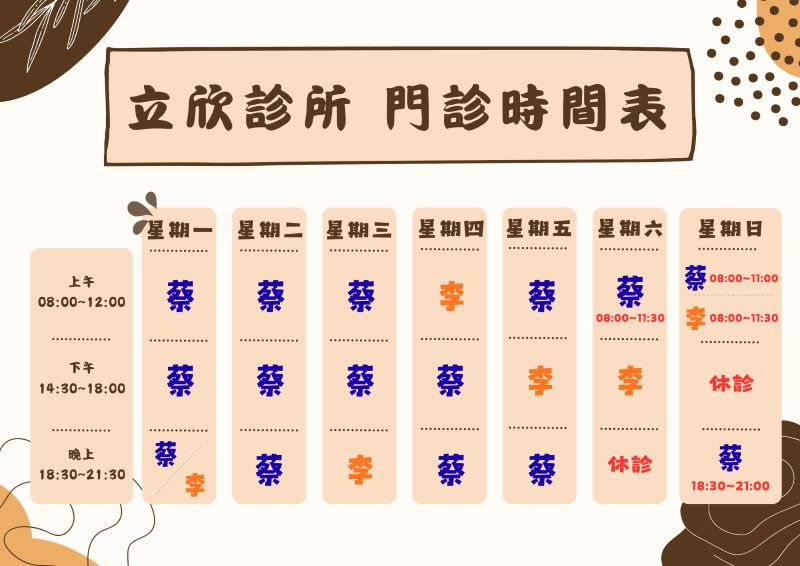
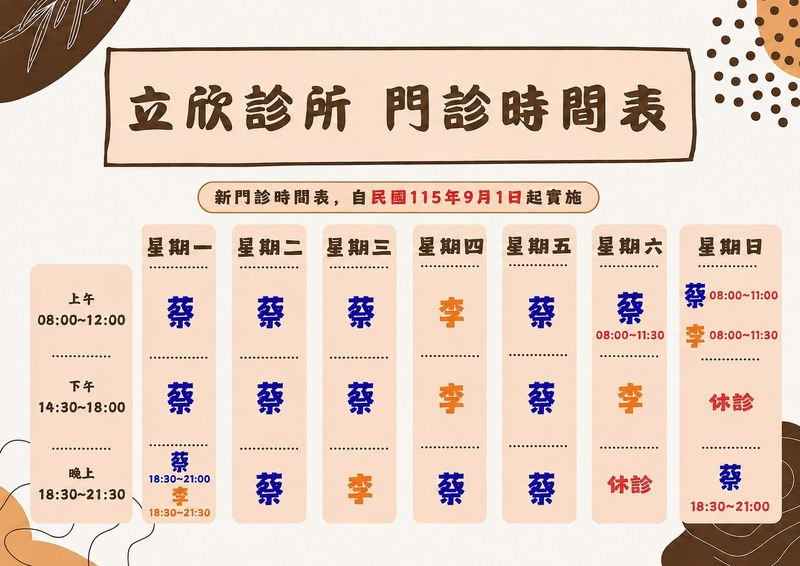
9/1 新門診時間表提前上線：首頁 4 格＋週末頁海報圖
8/31（週一）晚診結束後提前執行，院長指示。變更的是醫師排班，
診所開診時段逐格未變，故 HERO 徽章 SCHEDULE、openingHoursSpecification、
llms 雙檔、各頁 meta/FAQ 門診時間敘述一律零變更。

首頁 #schedule 四格：
- 週四午診 蔡 → 李
- 週五午診 李 → 蔡
- 週一晚診 蔡/李 18:30–21:30 → 蔡 18:30–21:00、李 18:30–21:30
- 週日早診 蔡/李 08:00–11:30 → 蔡 08:00–11:00、李 08:00–11:30

同批：
- images/LH_Time2_s.jpg 由 clinic-notice-20260901.jpg 縮至 800×566
- 門診時間表下方「最後更新」戳記 2026/6/12 → 2026/8/31
- index.html 與 weekend-pediatrics.html dateModified、sitemap lastmod 同步（R4）
- booking-system/prisma/schedule.json 以 sync_schedule.py 重產

驗證：validate_site --stage deploy 76 檔 ERROR 0／WARN 0；
sync_schedule --selftest 通過、--check exit 0；
⛔ 零變更基準計數逐項相同，只有 18:30–21:00（38→39）與 08:00–11:00（0→1）如期 +1；
全站醫師×星期鄰接掃描無新命中；
Playwright 390／1280px 首頁與週末頁零橫向溢出。

Claude-Session: https://claude.ai/code/session_01PuLJRuVXmQsA22MFz5mq2j

diff --git a/index.html b/index.html
@@ -2079,7 +2079,7 @@
  "inLanguage": {"@type": "Language", "name": "Chinese", "alternateName": "zh-TW"},
  "isPartOf": {"@type": "WebSite", "@id": "https://lhpedclinic.com.tw/#website", "url": "https://lhpedclinic.com.tw/", "name": "立欣診所 LiHsin Clinic"},
  "datePublished": "2024-07-01",
- "dateModified": "2026-08-30T08:00:00+08:00",
+ "dateModified": "2026-08-31T08:00:00+08:00",
  "lastReviewed": "2026-05-15T09:00:00+08:00",
  "reviewedBy": {
   "@type": "Person",
@@ -2634,7 +2634,9 @@
  <p class="text-sm text-gray-600 mt-1 font-english" style="color: rgb(214, 105, 102); font-weight: bold;">08:00–11:30</p>
  </td>
  <td class="p-3 text-center">
- <span class="badge-green" style="background-color: rgb(248, 216, 88);">蔡/李</span>
+ <span class="badge-green" style="">蔡醫師</span>
+ <p class="text-sm text-gray-600 mt-1 font-english" style="color: rgb(214, 105, 102); font-weight: bold;">08:00–11:00</p>
+ <span class="badge-green" style="background-color: rgb(255, 212, 211);">李醫師</span>
  <p class="text-sm text-gray-600 mt-1 font-english" style="color: rgb(214, 105, 102); font-weight: bold;">08:00–11:30</p>
  </td>
  </tr>
@@ -2653,11 +2655,11 @@
  <p class="text-sm text-gray-600 mt-1 font-english">14:30–18:00</p>
  </td>
  <td class="p-3 text-center">
- <span class="badge-green" style=""><span style="font-size: 16px;">蔡醫師</span></span>
+ <span class="badge-green" style="background-color: rgb(255, 212, 211);">李醫師</span>
  <p class="text-sm text-gray-600 mt-1 font-english">14:30–18:00</p>
  </td>
  <td class="p-3 text-center">
- <span class="badge-green" style="background-color: rgb(255, 212, 211);">李醫師</span>
+ <span class="badge-green" style=""><span style="font-size: 16px;">蔡醫師</span></span>
  <p class="text-sm text-gray-600 mt-1 font-english">14:30–18:00</p>
  </td>
  <td class="p-3 text-center">
@@ -2672,7 +2674,9 @@
  <tr class="hover:bg-gray-50 transition">
  <td class="p-3 font-chinese font-semibold text-gray-700">晚上<br><span class="text-base text-gray-500 font-english">Evening</span></td>
  <td class="p-3 text-center">
- <span class="badge-green" style="background-color: rgb(248, 216, 88);">蔡/李</span>
+ <span class="badge-green" style="">蔡醫師</span>
+ <p class="text-sm text-gray-600 mt-1 font-english" style="color: rgb(214, 105, 102); font-weight: bold;">18:30–21:00</p>
+ <span class="badge-green" style="background-color: rgb(255, 212, 211);">李醫師</span>
  <p class="text-sm text-gray-600 mt-1 font-english">18:30–21:30</p>
  </td>
  <td class="p-3 text-center">
@@ -2711,7 +2715,7 @@
  </div>
  </div>
  <p class="text-center text-gray-600 mt-6 font-chinese" style="">※ 實際門診時間可能因醫師排班調整，建議來電或LINE確認。</p>
- <p class="text-center text-gray-400 text-base mt-2 font-chinese">最後更新：<time datetime="2026-06-12">2026年6月12日</time></p>
+ <p class="text-center text-gray-400 text-base mt-2 font-chinese">最後更新：<time datetime="2026-08-31">2026年8月31日</time></p>
 <p class="text-center mt-3 font-chinese"><a href="/services/weekend-pediatrics.html" class="inline-block text-[#7C9A6E] font-medium hover:underline text-sm">週六、週日均有門診、平日夜診至 21:30 — 了解假日與夜間兒科 →</a></p>
 <p class="text-center mt-2 font-chinese"><a href="/visit-guide.html" onclick="trackCTA('Schedule_VisitGuide')" class="inline-block text-[#7C9A6E] font-medium hover:underline text-sm">📋 完整就診指南：預約・報到・看診進度・交通停車 →</a></p>
 

diff --git a/services/weekend-pediatrics.html b/services/weekend-pediatrics.html
@@ -71,7 +71,7 @@
  "citation": [{"@type": "WebPage", "name": "兒童預防保健", "url": "https://www.hpa.gov.tw/Pages/List.aspx?nodeid=1595", "publisher": {"@type": "GovernmentOrganization", "name": "衛生福利部國民健康署", "url": "https://www.hpa.gov.tw/"}}, {"@type": "WebPage", "name": "傳染病介紹", "url": "https://www.cdc.gov.tw/Disease/Index", "publisher": {"@type": "GovernmentOrganization", "name": "衛生福利部疾病管制署", "url": "https://www.cdc.gov.tw/"}}],
  "lastReviewed": "2026-06-13T09:00:00+08:00",
  "datePublished": "2026-06-13",
- "dateModified": "2026-08-09T12:00:00+08:00",
+ "dateModified": "2026-08-31T12:00:00+08:00",
  "about": {
   "@type": "MedicalClinic",
   "@id": "https://lhpedclinic.com.tw/#organization",
